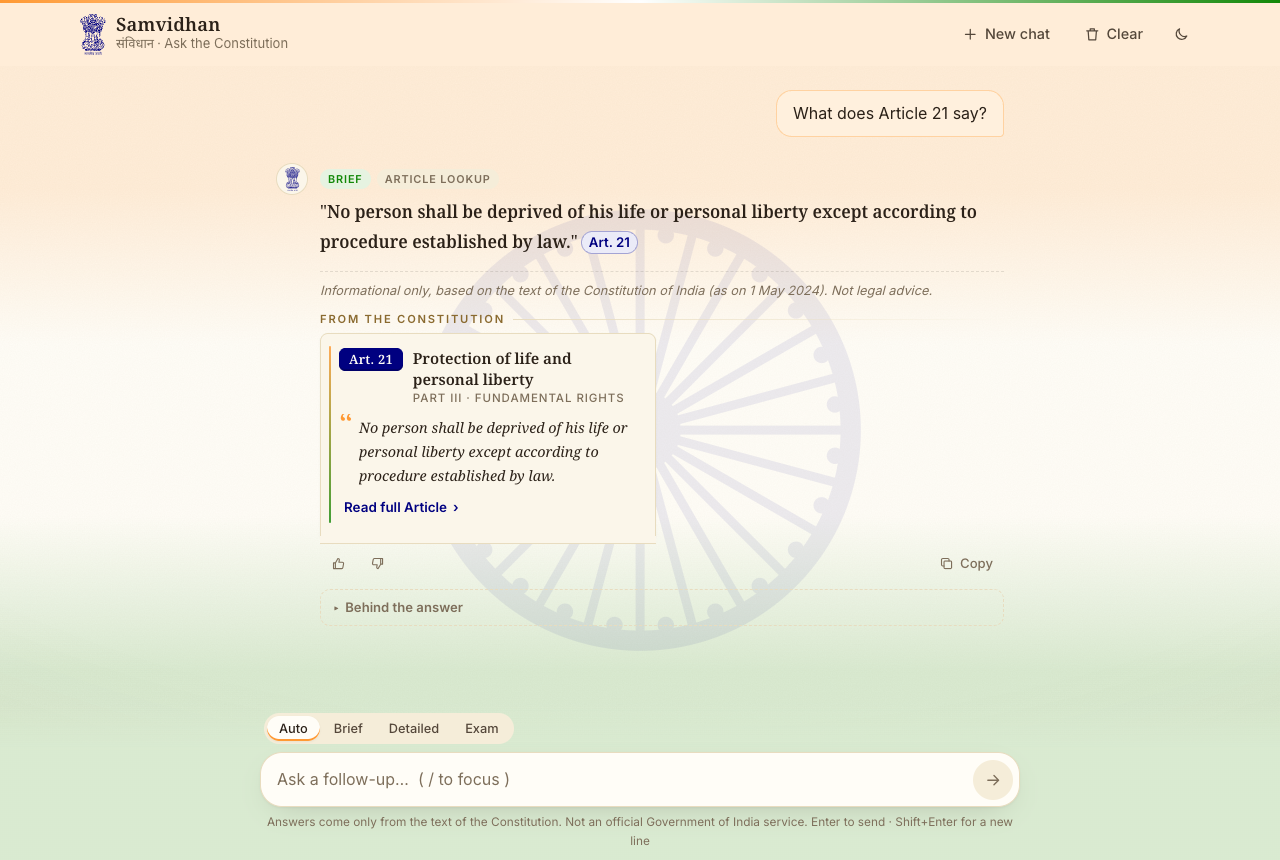
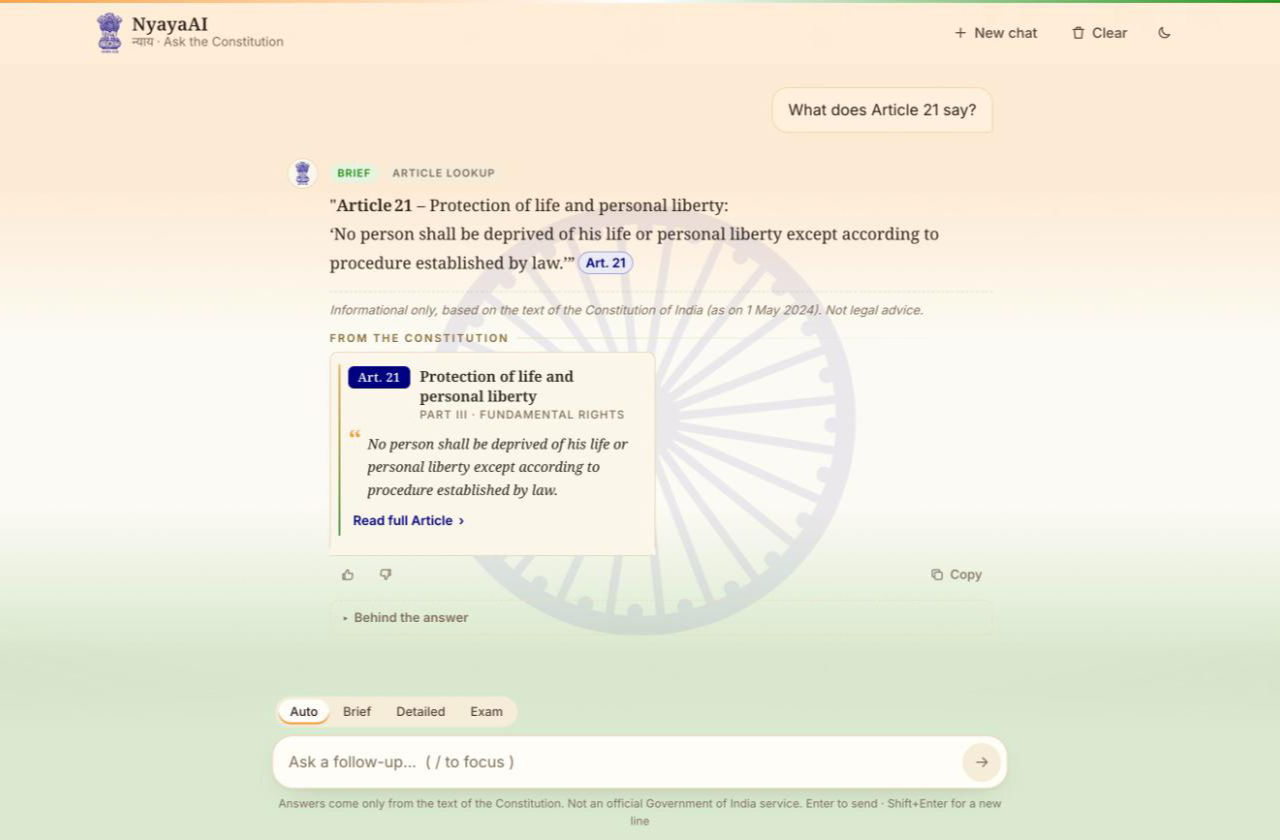
test(retrieval): guard the top-10 context; README headline NyayaAI
- Tests: defaults keep FINAL_K=10 with room for pins (MAX_CONTEXT_CHUNKS=12);
  the retrieval service returns the top 10 ranked chunks plus a pinned one
  without trimming; the default token budget fits ten ~600-token chunks.
  All three fail on the old 5/8/3000 values.
- README: headline is NyayaAI; tests badge 357; chat, drawer and night
  screenshots retaken with the NyayaAI header.
- UI spec: manual check that the brand link opens a fresh landing.

diff --git a/tests/unit/test_service.py b/tests/unit/test_service.py
@@ -152,6 +152,20 @@ async def test_context_and_ref_caps_log_limit_applied(
     assert limits == {"article_refs", "context_chunks"}
 
 
+async def test_defaults_keep_top_final_k_plus_pins_untrimmed(
+    monkeypatch: pytest.MonkeyPatch, settings: Settings
+) -> None:
+    many = [chunk(f"art-{n}#0", article_no=str(n), seq=n) for n in range(100, 114)]  # 14 hits
+    svc = _service(monkeypatch, settings, dense=many, lexical=[], pinned=[ART21A])
+    with structlog.testing.capture_logs() as logs:
+        plain = await svc.retrieve("q")
+        with_pin = await svc.retrieve("q", refs=["21A"])
+    assert len(plain.chunks) == settings.final_k == 10
+    assert len(with_pin.chunks) == settings.final_k + 1
+    assert with_pin.chunks[0].id == "art-21A#0"
+    assert not any(e["event"] == "limit_applied" for e in logs)
+
+
 async def test_no_active_corpus_is_unavailable(
     monkeypatch: pytest.MonkeyPatch, settings: Settings
 ) -> None:

diff --git a/tests/unit/test_answer.py b/tests/unit/test_answer.py
@@ -53,6 +53,15 @@ def test_fit_context_keeps_order_within_token_budget() -> None:
     assert [c.id for c in fit_context(chunks[:1], max_tokens=1)] == ["c0"]  # first always fits
 
 
+def test_default_token_budget_fits_ten_typical_chunks(settings: Settings) -> None:
+    # Chunks target 300-700 tokens; ten ~600-token excerpts must all reach the answer prompt.
+    chunks = [chunk(f"c{n}", article_no=str(n), text="x" * 2400) for n in range(10)]
+    with structlog.testing.capture_logs() as logs:
+        kept = fit_context(chunks, max_tokens=settings.max_context_tokens)
+    assert len(kept) == 10
+    assert not logs
+
+
 def test_messages_include_history_note_and_question(
     settings: Settings, prompt: PromptTemplate
 ) -> None:

diff --git a/tests/unit/test_config.py b/tests/unit/test_config.py
@@ -10,6 +10,15 @@ def test_defaults() -> None:
     assert settings.embed_max_length == 1024
 
 
+def test_retrieval_context_defaults_hold_top_k_plus_pins() -> None:
+    settings = Settings(_env_file=None)  # type: ignore[call-arg]
+    assert settings.final_k == 10
+    assert settings.rerank_candidates >= settings.final_k
+    # The chunk cap leaves room for pinned chunks on top of the reranked top-k.
+    assert settings.max_context_chunks == 12 > settings.final_k
+    assert settings.max_context_tokens == 7000
+
+
 def test_env_overrides_and_csv_cors(monkeypatch: pytest.MonkeyPatch) -> None:
     monkeypatch.setenv("CORS_ORIGINS", "http://a.test, http://b.test")
     monkeypatch.setenv("FINAL_K", "7")

diff --git a/docs/specs/ui.md b/docs/specs/ui.md
@@ -158,6 +158,7 @@ to `done`. `CORS_ORIGINS` stays for UIs served from another origin; the default 
 - [ ] `done.debug` is present only when `DEBUG_UI=true`.
 - [ ] Demo flow in a browser: typewriter → persona → starter question → streamed answer with cards → drawer →
       follow-up → Exam toggle (meta tag shows "exam") → 👍 with a comment → reload restores history → New chat.
+- [ ] From a chat, a click on the NyayaAI brand shows a fresh landing (no reload back into the same chat).
 - [ ] No horizontal scroll at 375px wide; the drawer becomes a bottom sheet.
 - [ ] Reduced motion skips the typewriter; the dark theme keeps AA contrast for body text and pills.
 - [ ] Eval: router suite unchanged (no prompt change; override defaults to `None`).

diff --git a/README.md b/README.md
@@ -1,12 +1,12 @@
 <div align="center">
 
-# 🇮🇳 Samvidhan RAG
+# 🇮🇳 NyayaAI
 
 **A production-oriented, citation-grounded RAG system for the Constitution of India — designed around retrieval
 evaluation, failure handling, and Article-level source attribution.**
 
 ![Phase](https://img.shields.io/badge/phase-6%20web%20UI%20built-f9c513)
-![Tests](https://img.shields.io/badge/tests-353%20passing-2ea44f)
+![Tests](https://img.shields.io/badge/tests-357%20passing-2ea44f)
 ![Recall@5](https://img.shields.io/badge/Recall%405%20(dev)-0.93-2ea44f)
 ![Articles](https://img.shields.io/badge/articles-506%2F506-blue)
 ![Python](https://img.shields.io/badge/python-3.12-3776AB?logo=python&logoColor=white)
